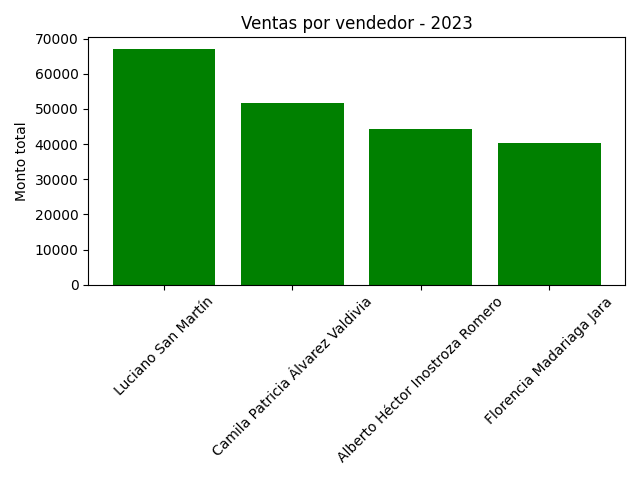
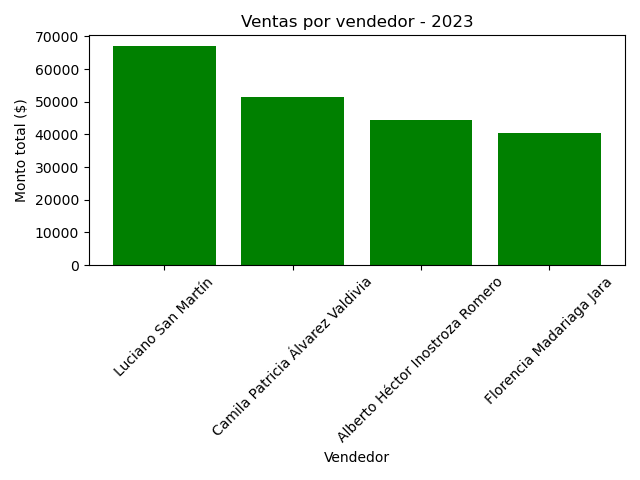
Añadir nombres más descriptivos a ejes de gráficos de análisis

diff --git a/analisis.py b/analisis.py
@@ -29,7 +29,7 @@ def analisis_ventas_por_mes(cursor, año):
     plt.plot(meses, totales, color='red')
     plt.title(f'Ventas por mes - {año}')
     plt.xlabel('Mes')
-    plt.ylabel('Monto total')
+    plt.ylabel('Monto total ($)')
     plt.tight_layout()
     plt.savefig(os.path.join(BASE_DIR, f"graficos/analisis_ventas_por_mes_{año}.png"))
 
@@ -48,7 +48,8 @@ def analisis_ventas_por_producto(cursor, año):
     plt.figure(figsize=(10,5))
     plt.barh(productos, cantidades, color='orange')
     plt.title(f'Ventas por producto - {año}')
-    plt.xlabel('Cantidad vendida')
+    plt.xlabel('Cantidad vendida (unidad)')
+    plt.ylabel('Producto')
     plt.tight_layout()
     plt.savefig(os.path.join(BASE_DIR, f"graficos/analisis_ventas_por_producto_{año}.png"))
 
@@ -67,7 +68,8 @@ def analisis_monto_total_recaudado_por_vendedor(cursor, año):
     plt.figure()
     plt.bar(nombres, montos, color='green')
     plt.title(f'Ventas por vendedor - {año}')
-    plt.ylabel('Monto total')
+    plt.xlabel('Vendedor')
+    plt.ylabel('Monto total ($)')
     plt.xticks(rotation=45)
     plt.tight_layout()
     plt.savefig(os.path.join(BASE_DIR, f"graficos/analisis_monto_total_recaudado_por_vendedor_{año}.png"))
@@ -87,7 +89,8 @@ def analisis_compras_por_insumo(cursor, año):
     plt.figure(figsize=(10,5))
     plt.barh(insumos, cantidades, color='purple')
     plt.title(f'Compras por insumo - {año}')
-    plt.xlabel('Cantidad comprada')
+    plt.xlabel('Cantidad comprada (unidad)')
+    plt.ylabel('Insumo')
     plt.tight_layout()
     plt.savefig(os.path.join(BASE_DIR, f"graficos/analisis_compras_por_insumo_{año}.png"))
 
@@ -124,6 +127,7 @@ def analisis_dias_con_mas_ventas(cursor, año):
     plt.barh(dias[::-1], cantidades[::-1], color='teal') 
     plt.title(f'Días con más ventas - Top 10 - {año}')
     plt.xlabel('Cantidad de ventas')
+    plt.ylabel('Fecha')
     plt.tight_layout()
     plt.savefig(os.path.join(BASE_DIR, f"graficos/analisis_10_dias_con_mas_ventas_{año}.png"))
 
